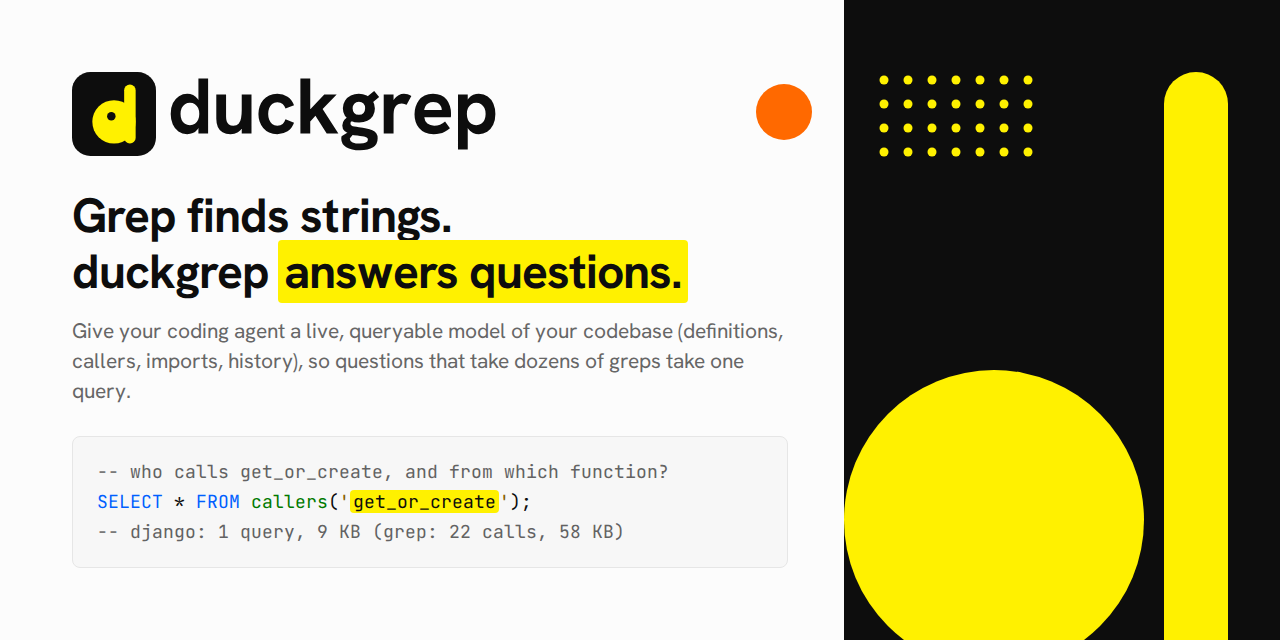
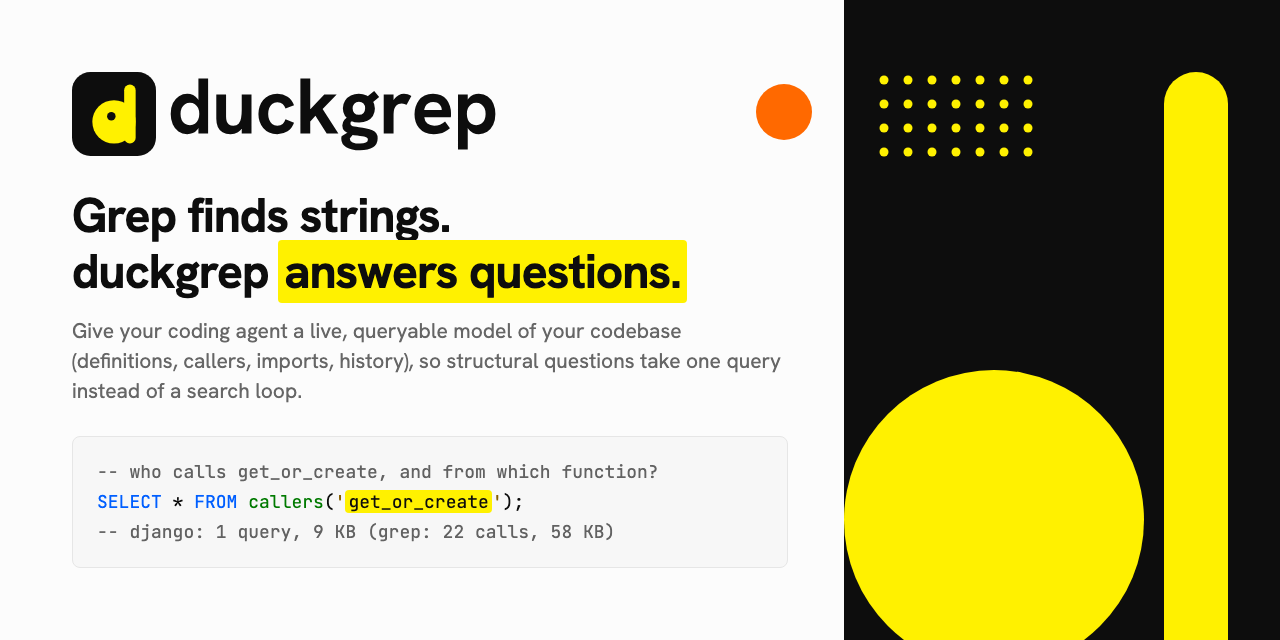
brand: a subhead the agent results bear out, and a rule for quoting them
The subhead promised that "questions that take dozens of greps take one query".
That multiplier comes from the simulated django benchmark. Real agents averaged
about three tool calls a question and saved 12-19% of them, so the subhead now
says "structural questions take one query instead of a search loop". It is
changed everywhere it appears: the README, the brand guide, tokens.json's
sample, the specimen page, og:description and the social cards (regenerated).

The brand guide gains an agent proof point to quote with its scope, and a rule:
never present the simulated benchmark's multiples as an agent's saving, and
say where duckgrep doesn't help when the numbers are shown at length.

Claude-Session: https://claude.ai/code/session_01JJHvD1qjJbo75WHfE9rrki

diff --git a/brand/index.html b/brand/index.html
@@ -25,7 +25,7 @@ figcaption{margin-top:12px;font-size:12px;color:#666}
 <p class="type-body-lg" style="max-width:68ch">Brand specimen. Rules live in <code>README.md</code>; values in <code>tokens.json</code>, compiled to <code>tokens.css</code>.</p>
 <section><h2 class="type-h2">Logos</h2><div class="grid"><figure class="lt"><img src="logos/duckgrep-lockup-light.svg" alt="" height="64"><figcaption><code>duckgrep-lockup-light.svg</code></figcaption></figure><figure class="lt"><img src="logos/duckgrep-mark.svg" alt="" height="64"><figcaption><code>duckgrep-mark.svg</code></figcaption></figure><figure class="lt"><img src="logos/duckgrep-mark-yellow.svg" alt="" height="64"><figcaption><code>duckgrep-mark-yellow.svg</code></figcaption></figure><figure class="lt"><img src="logos/dgrep-wordmark-light.svg" alt="" height="64"><figcaption><code>dgrep-wordmark-light.svg</code></figcaption></figure><figure class="lt"><img src="logos/duckgrep-glyph-ink.svg" alt="" height="64"><figcaption><code>duckgrep-glyph-ink.svg</code></figcaption></figure><figure class="dk"><img src="logos/duckgrep-lockup-dark.svg" alt="" height="64"><figcaption><code>duckgrep-lockup-dark.svg</code></figcaption></figure><figure class="dk"><img src="logos/dgrep-wordmark-dark.svg" alt="" height="64"><figcaption><code>dgrep-wordmark-dark.svg</code></figcaption></figure><figure class="dk"><img src="logos/duckgrep-glyph-yellow.svg" alt="" height="64"><figcaption><code>duckgrep-glyph-yellow.svg</code></figcaption></figure></div></section>
 <section><h2 class="type-h2">Colour</h2><div class="grid"><div class="sw"><div class="chip" style="background:var(--duck-yellow)"></div><code>duck-yellow</code><span>#fff100 / #fff100</span></div><div class="sw"><div class="chip" style="background:var(--duck-yellow-hover)"></div><code>duck-yellow-hover</code><span>#eddd0c / #eddd0c</span></div><div class="sw"><div class="chip" style="background:var(--on-yellow)"></div><code>on-yellow</code><span>#0d0d0d / #0d0d0d</span></div><div class="sw"><div class="chip" style="background:var(--surface)"></div><code>surface</code><span>#fcfcfc / #0d0d0d</span></div><div class="sw"><div class="chip" style="background:var(--surface-raised)"></div><code>surface-raised</code><span>#ffffff / #1a1a1a</span></div><div class="sw"><div class="chip" style="background:var(--surface-code)"></div><code>surface-code</code><span>#f7f7f7 / #141414</span></div><div class="sw"><div class="chip" style="background:var(--ink)"></div><code>ink</code><span>#0d0d0d / #f2f2f2</span></div><div class="sw"><div class="chip" style="background:var(--ink-muted)"></div><code>ink-muted</code><span>#666666 / #b2b2b2</span></div><div class="sw"><div class="chip" style="background:var(--border)"></div><code>border</code><span>#e6e6e6 / #333333</span></div><div class="sw"><div class="chip" style="background:var(--border-strong)"></div><code>border-strong</code><span>#808080 / #808080</span></div><div class="sw"><div class="chip" style="background:var(--link)"></div><code>link</code><span>#665d00 / #fff100</span></div><div class="sw"><div class="chip" style="background:var(--focus)"></div><code>focus</code><span>#357197 / #61c2ff</span></div><div class="sw"><div class="chip" style="background:var(--match-bg)"></div><code>match-bg</code><span>#fff100 / #454100</span></div><div class="sw"><div class="chip" style="background:var(--match-ink)"></div><code>match-ink</code><span>#0d0d0d / #fff866</span></div><div class="sw"><div class="chip" style="background:var(--accent-orange)"></div><code>accent-orange</code><span>#ff6900 / #ff6900</span></div><div class="sw"><div class="chip" style="background:var(--code-keyword)"></div><code>code-keyword</code><span>#005fff / #5fafff</span></div><div class="sw"><div class="chip" style="background:var(--code-string)"></div><code>code-string</code><span>#875f00 / #ffd700</span></div><div class="sw"><div class="chip" style="background:var(--code-number)"></div><code>code-number</code><span>#b8009a / #ff00ff</span></div><div class="sw"><div class="chip" style="background:var(--code-function)"></div><code>code-function</code><span>#007a00 / #00af00</span></div><div class="sw"><div class="chip" style="background:var(--code-comment)"></div><code>code-comment</code><span>#626262 / #888888</span></div><div class="sw"><div class="chip" style="background:var(--code-error)"></div><code>code-error</code><span>#d70000 / #ff6a6a</span></div></div></section>
-<section><h2 class="type-h2">Type</h2><div class="ty"><code>.type-display</code><div class="type-display">Grep finds strings. duckgrep answers questions.</div></div><div class="ty"><code>.type-h1</code><div class="type-h1">Grep finds strings.</div></div><div class="ty"><code>.type-h2</code><div class="type-h2">Why it matters</div></div><div class="ty"><code>.type-h3</code><div class="type-h3">It joins code with its history.</div></div><div class="ty"><code>.type-body-lg</code><div class="type-body-lg">Give your coding agent a live, queryable model of your codebase (definitions, callers, imports, history), so questions that take dozens of greps take one query.</div></div><div class="ty"><code>.type-body</code><div class="type-body">Coding agents find their way around a codebase with chains of grep → read file → grep again. That works for “where is this string.”</div></div><div class="ty"><code>.type-small</code><div class="type-small">index: 89 files, 702 symbols, 16513 refs, 72 commits</div></div><div class="ty"><code>.type-code</code><div class="type-code">$ duckgrep callers Session.request</div></div><div class="ty"><code>.type-code-sm</code><div class="type-code-sm">src/duckgrep/index.py  367</div></div><div class="ty"><code>.type-label</code><div class="type-label">WHY IT MATTERS</div></div></section>
+<section><h2 class="type-h2">Type</h2><div class="ty"><code>.type-display</code><div class="type-display">Grep finds strings. duckgrep answers questions.</div></div><div class="ty"><code>.type-h1</code><div class="type-h1">Grep finds strings.</div></div><div class="ty"><code>.type-h2</code><div class="type-h2">Why it matters</div></div><div class="ty"><code>.type-h3</code><div class="type-h3">It joins code with its history.</div></div><div class="ty"><code>.type-body-lg</code><div class="type-body-lg">Give your coding agent a live, queryable model of your codebase (definitions, callers, imports, history), so structural questions take one query instead of a search loop.</div></div><div class="ty"><code>.type-body</code><div class="type-body">Coding agents find their way around a codebase with chains of grep → read file → grep again. That works for “where is this string.”</div></div><div class="ty"><code>.type-small</code><div class="type-small">index: 89 files, 702 symbols, 16513 refs, 72 commits</div></div><div class="ty"><code>.type-code</code><div class="type-code">$ duckgrep callers Session.request</div></div><div class="ty"><code>.type-code-sm</code><div class="type-code-sm">src/duckgrep/index.py  367</div></div><div class="ty"><code>.type-label</code><div class="type-label">WHY IT MATTERS</div></div></section>
 <section><h2 class="type-h2">Buttons</h2><div style="display:flex;flex-wrap:wrap;gap:12px;align-items:center;padding:24px;background:var(--surface);font-family:var(--font-sans)">
   <a class="dg-btn dg-btn--primary" href="#">Install</a>
   <a class="dg-btn dg-btn--secondary" href="#">Read the docs</a>

diff --git a/brand/tools/build_icons.py b/brand/tools/build_icons.py
@@ -103,7 +103,7 @@ def card(w, h, t, pad):
     </svg>
     <div class="left"><div class="lock">{lock}</div>
       <div class="lede">Grep finds strings.<br>duckgrep <span class="hl">answers questions.</span></div>
-      <div class="sub">Give your coding agent a live, queryable model of your codebase (definitions, callers, imports, history), so questions that take dozens of greps take one query.</div></div>
+      <div class="sub">Give your coding agent a live, queryable model of your codebase (definitions, callers, imports, history), so structural questions take one query instead of a search loop.</div></div>
     <div class="term"><span class="p">-- who calls get_or_create, and from which function?</span>
 <span class="kw">SELECT</span> * <span class="kw">FROM</span> <span class="fn">callers</span>(<span class="str">'</span><span class="m">get_or_create</span><span class="str">'</span>);
 <span class="p">-- django: 1 query, 9 KB (grep: 22 calls, 58 KB)</span></div>

diff --git a/brand/README.md b/brand/README.md
@@ -28,7 +28,7 @@ Colours are `var(--token-name)`; type styles are classes (`.type-display`, `.typ
 
 ---
 
-duckgrep gives your coding agent **a live, queryable model of your codebase** (definitions, callers, imports, history), so questions that take dozens of greps take one query. Its identity borrows DuckDB's vocabulary — the yellow, near-black ink, flat surfaces, a grotesk plus JetBrains Mono — and adds one idea of its own: the **duck-d**, a lowercase *d* built from a disc and a pill that doubles as a duck's head looking up, bill first. Use this system for the website, docs, the GitHub README and social cards.
+duckgrep gives your coding agent **a live, queryable model of your codebase** (definitions, callers, imports, history), so structural questions take one query instead of a search loop. Its identity borrows DuckDB's vocabulary — the yellow, near-black ink, flat surfaces, a grotesk plus JetBrains Mono — and adds one idea of its own: the **duck-d**, a lowercase *d* built from a disc and a pill that doubles as a duck's head looking up, bill first. Use this system for the website, docs, the GitHub README and social cards.
 
 ## Name and mark
 
@@ -53,7 +53,7 @@ For the GitHub README, which cannot follow the viewer's theme with CSS, use a `<
 ## Messaging
 
 - **Tagline:** "Grep finds strings. duckgrep answers questions." Always two sentences, in that order, verbatim. Set it on two lines, breaking after "strings."; when it is the headline, give "answers questions" the `match-bg`/`match-ink` highlight.
-- **Subhead:** "Give your coding agent a live, queryable model of your codebase (definitions, callers, imports, history), so questions that take dozens of greps take one query." Use it under the tagline, in link previews and as the repo description.
+- **Subhead:** "Give your coding agent a live, queryable model of your codebase (definitions, callers, imports, history), so structural questions take one query instead of a search loop." Use it under the tagline, in link previews and as the repo description.
 - **The problem:** agents find their way around with chains of `grep` → read file → `grep` again. That works for "where is this string." The questions that matter when changing code are structural — *who calls this, what does it call, what breaks if I change it, what's dead* — and each turns into a loop of searches, file reads and guesses, paid for in turns and tokens.
 - **Four reasons, in this order, with their bold lead-ins as written** (feature cards or section heads):
   1. **It answers structural questions, not text matches.**
@@ -61,6 +61,7 @@ For the GitHub README, which cannot follow the viewer's theme with CSS, use a `<
   3. **It joins code with its history.** — call graph, git churn and authorship in one place.
   4. **It's trustworthy mid-edit.** — refreshed before every query; every edge says how it was resolved.
 - **Hero proof point** — quote exactly, with the repo named: on django, finding every call to `get_or_create` and the function it sits in took 22 grep calls and 58 KB of output; duckgrep answered it in one query and 9 KB. Supporting: "everything within 3 hops of `execute_sql`" took 110 calls and 104 KB vs 1 call and 113 bytes; typical queries run in 30–90 ms on django (7k files). Link every number to `bench/RESULTS.md`.
+- **Agent proof point** — the measured effect on real agents. Quote it with its scope, never as a multiple: "In 3,620 Claude Code runs on 494 real structural questions across 25 open-source repos, agents with duckgrep used 12–19% fewer tool calls and cost 14–25% less, with the same accuracy." The django figures above are a simulated benchmark of one exhaustive answer per question; never present their 22× or 110× as what an agent saves. Where duckgrep doesn't help (finding where to fix an issue: no saving), say so when the numbers are shown at length.
 - **The mechanism** (for "How it works", never the headline): tree-sitter parses the repo into a single DuckDB file, exposed as one read-only `query(sql)` MCP tool whose description carries the whole schema.
 - **Honesty is part of the brand.** State what it can't resolve (resolution tiers, known gaps) as plainly as the README does; never claim full type resolution.
 

diff --git a/brand/social/README.md b/brand/social/README.md
@@ -5,7 +5,7 @@ Link-preview cards. Each shows the lockup, the tagline ("Grep finds strings. duc
 
 ```html
 <meta property="og:title" content="duckgrep">
-<meta property="og:description" content="Grep finds strings. duckgrep answers questions. Give your coding agent a live, queryable model of your codebase, so questions that take dozens of greps take one query.">
+<meta property="og:description" content="Grep finds strings. duckgrep answers questions. Give your coding agent a live, queryable model of your codebase, so structural questions take one query instead of a search loop.">
 <meta property="og:image" content="https://YOUR-DOMAIN/og-image-dark.png">
 <meta property="og:image:width" content="1200">
 <meta property="og:image:height" content="630">

diff --git a/README.md b/README.md
@@ -2,7 +2,7 @@
 
 **Grep finds strings. duckgrep answers questions.**
 
-Give your coding agent a live, queryable model of your codebase (definitions, callers, imports, history), so questions that take dozens of greps take one query.
+Give your coding agent a live, queryable model of your codebase (definitions, callers, imports, history), so structural questions take one query instead of a search loop.
 
 ## Why it matters
 
